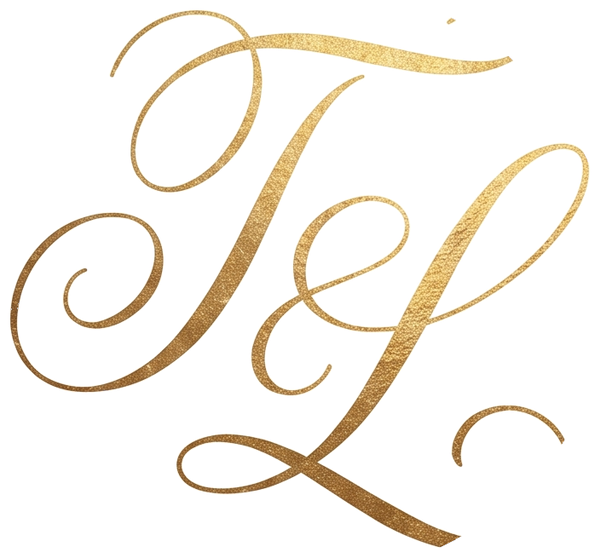
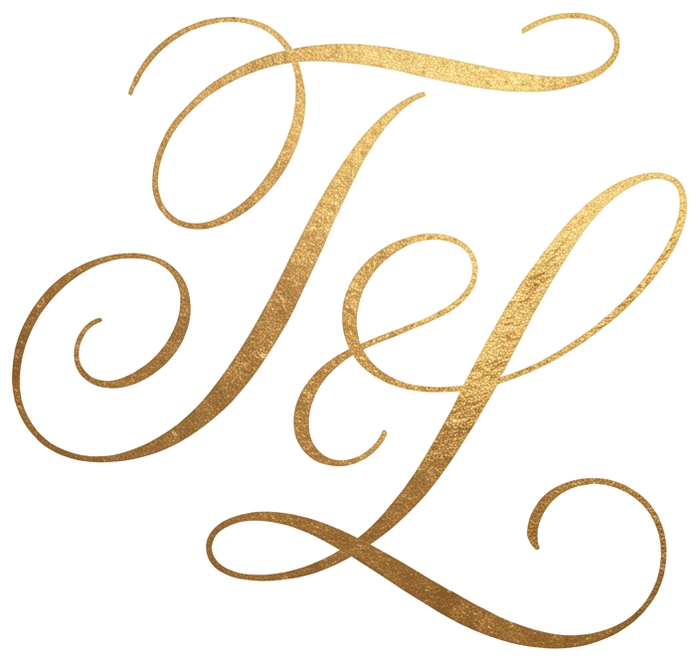
Sceau en relief en haut et en bas, nouvelles lettres

diff --git a/sketches.js b/sketches.js
@@ -119,55 +119,52 @@
   /* ---------------- Cachet de cire ----------------
      Couronne, lauriers, cercle perlé et monogramme entrelacé, embossés dans la cire. */
   let sealN = 0;
+  /* Cachet de cire façon sceau réel : bord irrégulier, rebord en relief, champ creusé,
+     lettres en relief éclairées par la gauche (filtres d'éclairage SVG). */
   const TONES = {
-    rose: { o: ['#dc7f9c', '#b4476a', '#7a2440'], i: ['#c25579', '#8f3054'], ring: '#6e1f3b', hi: '#f3b6c8', dark: '#4a0f25', light: '#ffe6ee', motif: '#f6c9d6' },
-    or:   { o: ['#fbe9a8', '#d4ab52', '#8a6424'], i: ['#e2c06a', '#a27a2c'], ring: '#6b4b14', hi: '#fff3c4', dark: '#4d3608', light: '#fff8dc', motif: '#fdeeb8' }
+    or:   { wax: ['#f0d68e', '#c9a24f', '#8d6726'], rim: '#d6b25e', f: ['#b08a40', '#c7a152'], mot: '#dcbd6c', spec: '#fff3cf', sh: '#4d3608' },
+    rose: { wax: ['#dc7f9c', '#b4476a', '#7a2440'], rim: '#bb5276', f: ['#8f3054', '#a8456a'], mot: '#c9698a', spec: '#ffe1ea', sh: '#3d0a1d' }
   };
-  /* img (facultatif) : image des lettres (PNG transparent) embossée dans la cire à la place du texte */
+  const relief = (id, blur, scale, spec, sc) => `<filter id="${id}" x="-15%" y="-15%" width="130%" height="130%" color-interpolation-filters="sRGB">
+      <feGaussianBlur in="SourceAlpha" stdDeviation="${blur}" result="h"/>
+      <feDiffuseLighting in="h" surfaceScale="${scale}" diffuseConstant="1.15" lighting-color="#fff" result="d"><feDistantLight azimuth="225" elevation="52"/></feDiffuseLighting>
+      <feComposite in="d" in2="SourceAlpha" operator="in" result="dl"/>
+      <feBlend in="SourceGraphic" in2="dl" mode="multiply" result="m"/>
+      <feSpecularLighting in="h" surfaceScale="${scale}" specularConstant="${sc}" specularExponent="16" lighting-color="${spec}" result="s"><feDistantLight azimuth="225" elevation="52"/></feSpecularLighting>
+      <feComposite in="s" in2="SourceAlpha" operator="in" result="sl"/>
+      <feComposite in="m" in2="sl" operator="arithmetic" k2="1" k3="1"/>
+    </filter>`;
+  /* img (facultatif) : lettres (PNG transparent) frappées dans la cire à la place du texte */
   function seal(mono, tone, img) {
-    const k = 's' + (sealN++), T = TONES[tone] || TONES.rose;
+    const k = 's' + (sealN++), T = TONES[tone] || TONES.or;
+    const hex = c => [1, 3, 5].map(i => (parseInt(c.slice(i, i + 2), 16) / 255).toFixed(3));
+    const [mr, mg, mb] = hex(T.mot);
     const g = String(mono || 'TL').replace(/\s/g, '').split('');
-    const glyphs = g.map((c, i) => {
-      const amp = c === '&';
-      const x = 60 + (i - (g.length - 1) / 2) * (g.length > 2 ? 16 : 13);
-      return `<text x="${x}" y="${amp ? 72 : 77}" font-size="${amp ? 20 : 40}">${c === '&' ? '&amp;' : c}</text>`;
-    }).join('');
-    /* couronne végétale fine : deux branches qui montent de part et d'autre, feuilles en amande alternées */
-    const R0 = 34; let leaves = '', stems = '';
-    const branch = (from, to, dir) => {
-      const n = 11, pt = a => [60 + R0 * Math.cos(a * Math.PI / 180), 60 + R0 * Math.sin(a * Math.PI / 180)];
-      const [x0, y0] = pt(from), [x1, y1] = pt(to);
-      stems += `<path d="M${x0.toFixed(2)} ${y0.toFixed(2)} A${R0} ${R0} 0 0 ${dir > 0 ? 1 : 0} ${x1.toFixed(2)} ${y1.toFixed(2)}" fill="none" stroke="${T.motif}" stroke-width=".55" stroke-linecap="round"/>`;
-      for (let i = 0; i < n; i++) {
-        const t = i / (n - 1), a = from + (to - from) * (0.04 + t * 0.92), [x, y] = pt(a), rad = a * Math.PI / 180;
-        const tx = -Math.sin(rad) * dir, ty = Math.cos(rad) * dir, phi = Math.atan2(ty, tx) * 180 / Math.PI;
-        const L = 6.2 - t * 2.4, w = 1.25 - t * 0.35;
-        [-1, 1].forEach(side => {
-          if (i === n - 1 && side === 1) return;
-          const rot = phi + side * 40 * dir;
-          leaves += `<path d="M0 0 Q${(L / 2).toFixed(2)} ${-w} ${L.toFixed(2)} 0 Q${(L / 2).toFixed(2)} ${w} 0 0 Z" transform="translate(${x.toFixed(2)} ${y.toFixed(2)}) rotate(${rot.toFixed(1)})"/>`;
-        });
-      }
-    };
-    branch(102, 248, 1); branch(78, -68, -1);
+    const glyphs = g.map((c, i) => `<text x="${60 + (i - (g.length - 1) / 2) * (g.length > 2 ? 16 : 13)}" y="${c === '&' ? 70 : 74}" font-size="${c === '&' ? 20 : 38}">${c === '&' ? '&amp;' : c}</text>`).join('');
     return `<svg class="wax" viewBox="0 0 120 120" aria-hidden="true">
       <defs>
-        <radialGradient id="${k}g" cx="38%" cy="32%" r="75%"><stop offset="0" stop-color="${T.o[0]}"/><stop offset=".55" stop-color="${T.o[1]}"/><stop offset="1" stop-color="${T.o[2]}"/></radialGradient>
-        <radialGradient id="${k}i" cx="45%" cy="40%" r="70%"><stop offset="0" stop-color="${T.i[0]}"/><stop offset="1" stop-color="${T.i[1]}"/></radialGradient>
+        <radialGradient id="${k}g" cx="36%" cy="30%" r="78%"><stop offset="0" stop-color="${T.wax[0]}"/><stop offset=".55" stop-color="${T.wax[1]}"/><stop offset="1" stop-color="${T.wax[2]}"/></radialGradient>
+        <linearGradient id="${k}f" x1="0" y1="0" x2="1" y2="1"><stop offset="0" stop-color="${T.f[0]}"/><stop offset="1" stop-color="${T.f[1]}"/></linearGradient>
         <filter id="${k}b" x="-10%" y="-10%" width="120%" height="120%"><feTurbulence type="fractalNoise" baseFrequency=".045" numOctaves="2" seed="4"/><feDisplacementMap in="SourceGraphic" scale="9"/></filter>
-        <filter id="${k}e" x="-20%" y="-20%" width="140%" height="140%"><feDropShadow dx=".5" dy=".6" stdDeviation=".25" flood-color="${T.dark}" flood-opacity=".7"/><feDropShadow dx="-.35" dy="-.4" stdDeviation=".2" flood-color="${T.light}" flood-opacity=".5"/></filter>
-        <filter id="${k}s"><feGaussianBlur stdDeviation="2.5"/></filter>
-        <filter id="${k}t" color-interpolation-filters="sRGB"><feColorMatrix type="matrix" values="0 0 0 0 ${parseInt(T.motif.slice(1,3),16)/255}  0 0 0 0 ${parseInt(T.motif.slice(3,5),16)/255}  0 0 0 0 ${parseInt(T.motif.slice(5,7),16)/255}  0 0 0 1 0"/></filter>
+        ${relief(k + 'r', 2, 2.2, T.spec, .45)}
+        ${relief(k + 'm', .3, .9, T.spec, 1.1)}
+        <filter id="${k}t" color-interpolation-filters="sRGB"><feMorphology operator="dilate" radius=".28"/><feColorMatrix type="matrix" values="0 0 0 0 ${mr}  0 0 0 0 ${mg}  0 0 0 0 ${mb}  0 0 0 1 0" result="c"/></filter>
+        <filter id="${k}i" x="-10%" y="-10%" width="120%" height="120%"><feGaussianBlur stdDeviation="1.6"/></filter>
+        <filter id="${k}n" x="0" y="0" width="100%" height="100%"><feTurbulence type="fractalNoise" baseFrequency="1.4" numOctaves="2" seed="9"/><feColorMatrix values="0 0 0 0 0  0 0 0 0 0  0 0 0 0 0  0 0 0 .09 0"/><feComposite in2="SourceGraphic" operator="in"/></filter>
+        <clipPath id="${k}c"><circle cx="60" cy="60" r="41"/></clipPath>
       </defs>
-      <circle cx="60" cy="60" r="53" fill="url(#${k}g)" filter="url(#${k}b)"/>
-      <circle cx="60" cy="60" r="41" fill="url(#${k}i)" stroke="${T.ring}" stroke-opacity=".45" stroke-width="1.4"/>
-      <circle cx="60" cy="60" r="41" fill="none" stroke="${T.hi}" stroke-opacity=".35" stroke-width=".8" transform="translate(-.8 -.8)"/>
-      <g filter="url(#${k}e)" fill="${T.motif}" stroke="none">
-        <circle cx="60" cy="60" r="39" fill="none" stroke="${T.motif}" stroke-width=".45" stroke-opacity=".8"/>
-        ${stems}${leaves}
-        ${img ? `<image class="seal-img" href="${img}" x="33" y="32" width="54" height="56" preserveAspectRatio="xMidYMid meet" filter="url(#${k}t)"/>` : `<g font-family="'Cormorant Garamond', Georgia, serif" font-style="italic" font-weight="600" text-anchor="middle">${glyphs}</g>`}
+      <circle cx="60" cy="60" r="54" fill="url(#${k}g)" filter="url(#${k}b)"/>
+      <path d="M60 10a50 50 0 1 0 .01 0Z M60 19a41 41 0 1 1 -.01 0Z" fill-rule="evenodd" fill="${T.rim}" filter="url(#${k}r)"/>
+      <circle cx="60" cy="60" r="41" fill="url(#${k}f)"/>
+      <g clip-path="url(#${k}c)">
+        <circle cx="60" cy="60" r="43" fill="none" stroke="${T.sh}" stroke-opacity=".3" stroke-width="4" transform="translate(1.6 1.8)" filter="url(#${k}i)"/>
+        <circle cx="60" cy="60" r="43" fill="none" stroke="#fff" stroke-opacity=".28" stroke-width="4" transform="translate(-1.4 -1.6)" filter="url(#${k}i)"/>
       </g>
-      <ellipse cx="40" cy="30" rx="15" ry="7" fill="#fff" opacity=".22" transform="rotate(-32 40 30)" filter="url(#${k}s)"/>
+      <g style="filter:drop-shadow(.7px .9px .5px ${T.sh}99)">
+        ${img ? `<g filter="url(#${k}m)"><image class="seal-img" href="${img}" x="31" y="31" width="58" height="58" preserveAspectRatio="xMidYMid meet" filter="url(#${k}t)"/></g>`
+          : `<g filter="url(#${k}m)" fill="${T.mot}" font-family="'Cormorant Garamond', Georgia, serif" font-style="italic" font-weight="600" text-anchor="middle">${glyphs}</g>`}
+      </g>
+      <circle cx="60" cy="60" r="54" fill="#000" filter="url(#${k}n)"/>
     </svg>`;
   }
 

diff --git a/index.html b/index.html
@@ -149,7 +149,7 @@ h2 { font: italic 500 clamp(34px, 6vw, 46px)/1.05 var(--f-display); margin: 8px 
 .foot-seal { width: 64px; margin: 0 auto 12px; transform: rotate(6deg); }
 .hero-mono { display: block; width: min(250px, 62vw); height: auto; margin: -8px auto 4px; }
 .foot-mono { display: block; width: 150px; height: auto; margin: 0 auto 8px; }
-.env .letter .l-mono { height: 40%; width: auto; margin-bottom: 2px; }
+.env .letter .l-mono { height: 34%; width: auto; margin-bottom: 2px; }
 .cal-seal .seal-img { opacity: 0; }
 .wax { width: 100%; height: auto; display: block; filter: drop-shadow(0 4px 6px rgba(110,80,20,.32)); }
 .hero-art { position: relative; margin: 34px auto 0; max-width: 560px; }
@@ -580,7 +580,7 @@ canvas#confetti { position: fixed; inset: 0; pointer-events: none; z-index: 60; 
 
     app.innerHTML = `
     <header class="hero">
-      ${C.monogrammeImage ? `<img class="hero-mono" src="${esc(C.monogrammeImage)}" alt="Monogramme ${esc(C.prenoms.join(' et '))}">` : `<div class="hero-seal">${S.seal(C.monogramme, C.cachet || 'or', C.monogrammeLettres)}</div>`}
+      <div class="hero-seal">${S.seal(C.monogramme, C.cachet || 'or', C.monogrammeLettres)}</div>
       <div class="eyebrow">${esc(F.nom)}</div>
       <h1 class="names">${chars(a)}<span class="amp">&amp;</span>${chars(b)}</h1>
       <p class="dates gold">${esc(F.dates)}</p>
@@ -677,7 +677,7 @@ canvas#confetti { position: fixed; inset: 0; pointer-events: none; z-index: 60; 
     <section id="rsvp"><div class="rsvp" id="rsvpBox"></div></section>
 
     <footer>
-      ${C.monogrammeImage ? `<img class="foot-mono" src="${esc(C.monogrammeImage)}" alt="">` : `<div class="foot-seal">${S.seal(C.monogramme, C.cachet || 'or', C.monogrammeLettres)}</div>`}
+      <div class="foot-seal">${S.seal(C.monogramme, C.cachet || 'or', C.monogrammeLettres)}</div>
       <div class="eyebrow">Avec toute notre impatience</div>
       <div class="sig">${esc(a)} &amp; ${esc(b)}</div>
     </footer>`;
@@ -995,7 +995,7 @@ canvas#confetti { position: fixed; inset: 0; pointer-events: none; z-index: 60; 
   function envelope() {
     const F = C.formules[state.code];
     $('#envSeal').innerHTML = S.seal(C.monogramme, C.cachet || 'or', C.monogrammeLettres);
-    $('#envLetter').innerHTML = `${C.monogrammeImage ? `<img class="l-mono" src="${esc(C.monogrammeImage)}" alt="">` : '<span class="l-eye">Vous êtes invités</span>'}<span class="l-names">${esc(C.prenoms[0])}<i>&amp;</i>${esc(C.prenoms[1])}</span><span class="l-date gold">${esc(F.dates)}</span>`;
+    $('#envLetter').innerHTML = `${C.monogrammeLettres ? `<img class="l-mono" src="${esc(C.monogrammeLettres)}" alt="">` : '<span class="l-eye">Vous êtes invités</span>'}<span class="l-names">${esc(C.prenoms[0])}<i>&amp;</i>${esc(C.prenoms[1])}</span><span class="l-date gold">${esc(F.dates)}</span>`;
     $('#envTo').textContent = state.nom ? 'Pour ' + state.nom : 'Une lettre pour vous';
     $('#petals').innerHTML = Array.from({ length: 12 }, () =>
       `<i class="petal" style="left:${Math.random() * 100}%;animation-duration:${10 + Math.random() * 8}s;animation-delay:${-Math.random() * 12}s;transform:scale(${.6 + Math.random() * .8}) rotate(${Math.round(Math.random() * 360)}deg)"></i>`).join('');
